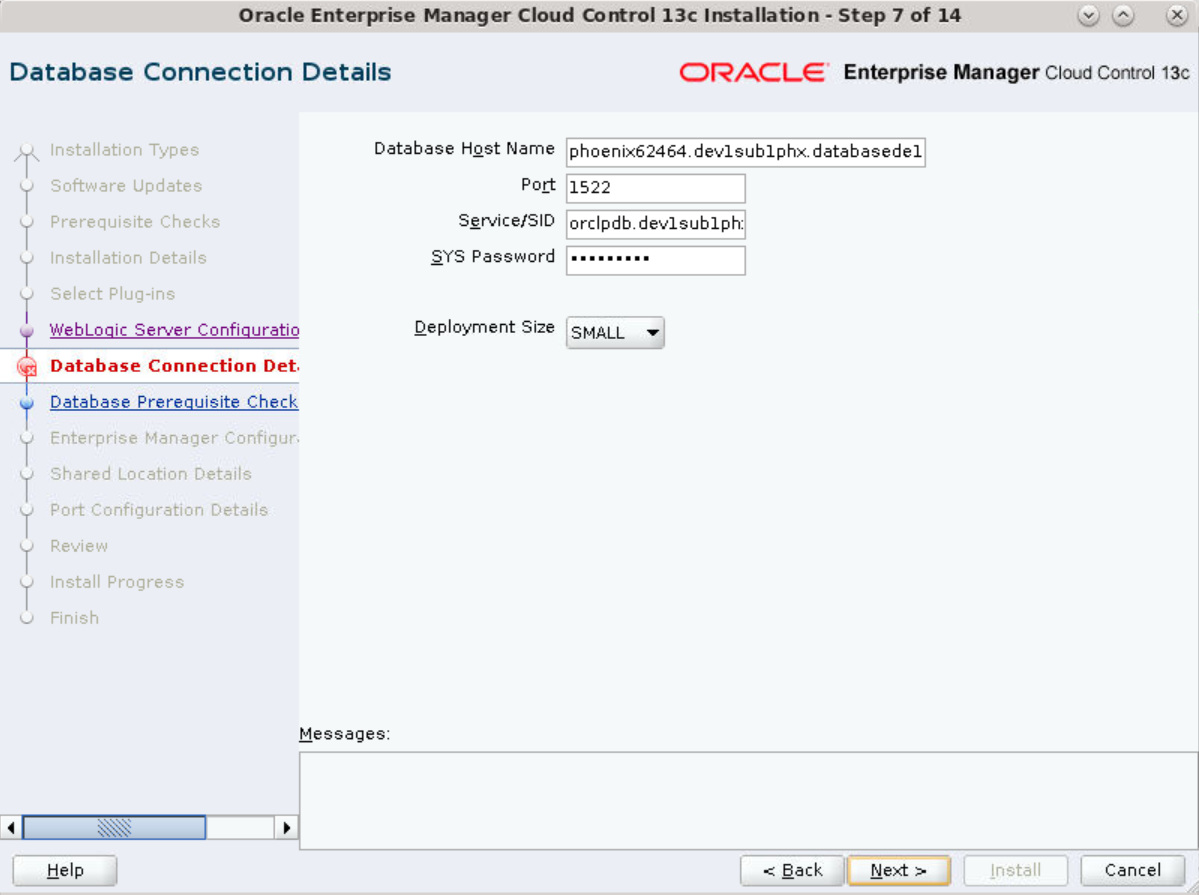
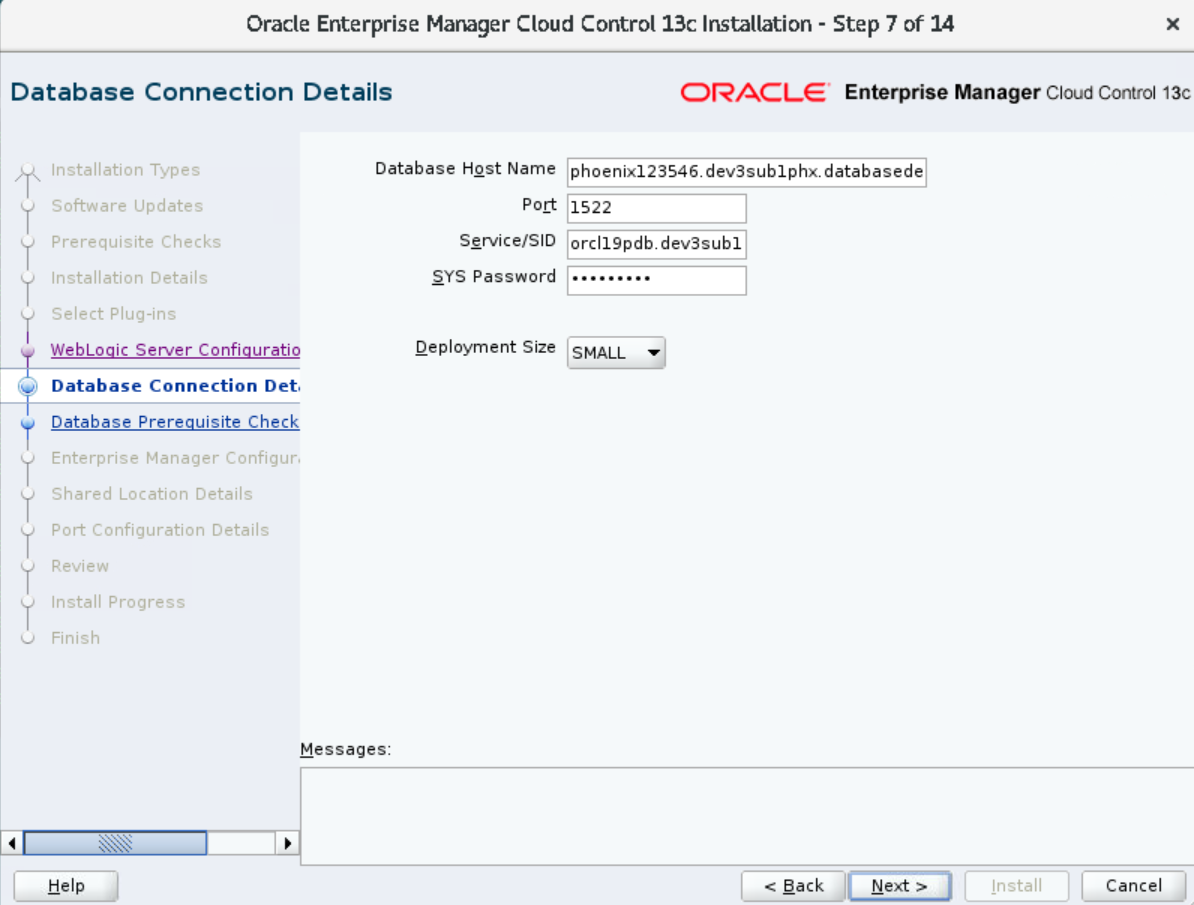
replaced screens for new VM, renumbered steps, minor changes to install steps
replaced the screens to show the new VM, phoenix123546
added a new screen for prereq checks succeeded
renumbered the steps to match the installer screen #
minor changes to steps 3 and 14.

~MG

diff --git a/common/lib-cellar/procedures/install-em/install-em.md b/common/lib-cellar/procedures/install-em/install-em.md
@@ -9,7 +9,7 @@ This lab covers the steps on how to install Oracle EM on VM. It also discusses t
 1. Set the `DISPLAY` environment variable.
 1. Run the EM Prereq Kit.
 
-> **Note:** This lab walks through the steps to install *Oracle EM 13.5*.
+> **Note:** This lab walks you through the steps to install *Oracle EM 13.5*.
 
 ----
 **1. Download the EM package and validate**
@@ -112,13 +112,13 @@ $ <copy>./em13500_linux64.bin EMPREREQ_KIT=true</copy>
 
 ## Task 2: Install Oracle EM 13.5
 
-1. Launch the installer. 
+- Launch the installer
 
 	```
 	$ <copy>./em13500_linux64.bin</copy>
 	```
 
-	Sample output:
+	## Sample output
 
 	```
 	Launcher log file is /tmp/OraInstall2022-05-20_01-45-57PM/launcher2022-05-20_01-45-57PM.log.
@@ -140,12 +140,19 @@ $ <copy>./em13500_linux64.bin EMPREREQ_KIT=true</copy>
 
 	![Skip Software Updates](./images/em-002-software-updates.png " ")**Figure:** Skip Software Updates
 
-1. Prerequisites checks - fix manually for failed item or **Ignore** the warnings.   
-   Sometimes, it displays a script to run. 
+1. Prerequisites checks. Sometimes, it displays a script to run. 
 
 	![Prerequisites Checks - Verify Environment](./images/em-003a-prereq-check.png " ")**Figure:** Prerequisites Checks - Verify Environment
 
+	Fix the failed items manually or click **Ignore** to skip the warnings.
+
 	![Ignore Issues in Environment](./images/em-003b-prereq-ignore.png " ")**Figure:** Ignore Issues in Environment
+
+	If the environment meets all requirements, the status displays *Succeeded*.
+
+	![Prerequisites checks - Success](./images/em-003c-prereq-success.png " ")**Figure:** Prerequisites checks - Success
+
+	Click **Next** to conitue.
 
 1. Installation details.
 
@@ -229,7 +236,7 @@ These credentials are required for the maintenance of EM.
 
 	Auto-fix if applicable. For more help, see [Troubleshooting](?lab=install-emcc#Task4:Troubleshooting). 
 
-1. Click **OK** to use the AL32UTF8 character set. 
+	Click **OK** to use the AL32UTF8 character set. 
 
 	![Character Set](./images/em-008b-char-set.png " ")**Figure:** Character Set
 
@@ -258,53 +265,55 @@ These credentials are required for the maintenance of EM.
 
 	![Port Configuration Details](./images/em-011-port-config.png " ")**Figure:** Port Configuration Details
 
-1. Review the summary of installation and click **Next**.
+	Review the summary of installation and click **Next**.
 
-1. On the Review page, review the details and click **Install** to start EM installation.
+1. On the Review page, review the details.
 
 	![Review - top](./images/em-012a-review1.png " ")**Figure:** Review - top
 
 	![Review - bottom](./images/em-012b-review2.png " ")**Figure:** Review - bottom
 
-   The installation progress starts. 
+1. Click **Install** to start EM installation. The installation progress starts. 
 
 	![EM Installation progress](./images/em-013a-install-progress.png " ")**Figure:** EM Installation progress
 
-1. Run the scripts automatically (or manually as `root` from the terminal).
+	 - Run the scripts automatically (or manually as `root` from the terminal).
 
-	![All Root script](./images/em-013b-all-root-script.png " ")**Figure:** All Root script
+		![All Root script](./images/em-013b-all-root-script.png " ")**Figure:** All Root script
 
-	```
-	$ <copy>/scratch/u01/software/em/middleware/allroot.sh</copy>
-	```
+		```
+		$ <copy>/scratch/u01/software/em/middleware/allroot.sh</copy>
+		```
 
-	## Result
+		## Result
 
-	```
-	Starting to execute allroot.sh ......... 
+		```
+		Starting to execute allroot.sh ......... 
 
-	Starting to execute /scratch/u01/software/em/middleware/root.sh ......
-	Check /scratch/u01/software/em/middleware/install/root_phoenix62464_2021-08-11_05-28-03.log for the output of root script
+		Starting to execute /scratch/u01/software/em/middleware/root.sh ......
+		Check /scratch/u01/software/em/middleware/install/root_phoenix62464_2021-08-11_05-28-03.log for the output of root script
 
-	Finished product-specific root actions.
-	/etc exist
-	Finished execution of  /scratch/u01/software/em/middleware/root.sh ......
+		Finished product-specific root actions.
+		/etc exist
+		Finished execution of  /scratch/u01/software/em/middleware/root.sh ......
 
 
-	Starting to execute /scratch/u01/software/em/agent/agent_13.5.0.0.0/root.sh ......
+		Starting to execute /scratch/u01/software/em/agent/agent_13.5.0.0.0/root.sh ......
 
-	Finished product-specific root actions.
-	/etc exist
-	Finished execution of  /scratch/u01/software/em/agent/agent_13.5.0.0.0/root.sh ......
-	```
+		Finished product-specific root actions.
+		/etc exist
+		Finished execution of  /scratch/u01/software/em/agent/agent_13.5.0.0.0/root.sh ......
+		```
 
-1. Return to the installer and click **OK** to continue the installation. 
+	 - Return to the installer and click **OK** to continue the installation. 
 
-1. On completion, note the EM URLs for 19c and **Close** the installer. 
+1. On successful completion, the installer displays the Finish window. 
 
 	![EM Installation Complete - top](./images/em-014-finish1.png " ")**Figure:** EM Installation Complete - top
 
 	![EM Installation Complete - bottom](./images/em-014-finish2.png " ")**Figure:** EM Installation Complete - bottom
+
+	> **Note:** Before you **Close** the installer, do not forget to note the EM URLs for 19c. 
 
 | Interface                    | Link                                         |
 |------------------------------|----------------------------------------------|
@@ -322,7 +331,7 @@ Cite: Another EM installation procedure explained here - [Manual EM Shiphome ins
 
 ## Task 3: Deinstall EM
 
-**Note:** Do not deinstall the repository database (Oracle Database 19c) before deinstalling EM. Else, it will return an error `The OMS delete of EMGC_OMS1 has failed.`
+> **Note:** Do not deinstall the repository database (Oracle Database 19c) before deinstalling EM. Else, it will return an error `The OMS delete of EMGC_OMS1 has failed.`
 
 - Run `deinstall` manually
 - Deinstall using script
@@ -1052,5 +1061,5 @@ A log file is generated to capture the deinstallation process.
 ## Acknowledgements
 
  - **Author** - Manish Garodia, Team Database UAD
- - **Last Updated on** - November 11, (Fri) 2022
+ - **Last Updated on** - November 28, (Mon) 2022
  - **Questions/Feedback?** - Blame [manish.garodia@oracle.com](./../../../intro/files/email.md)
